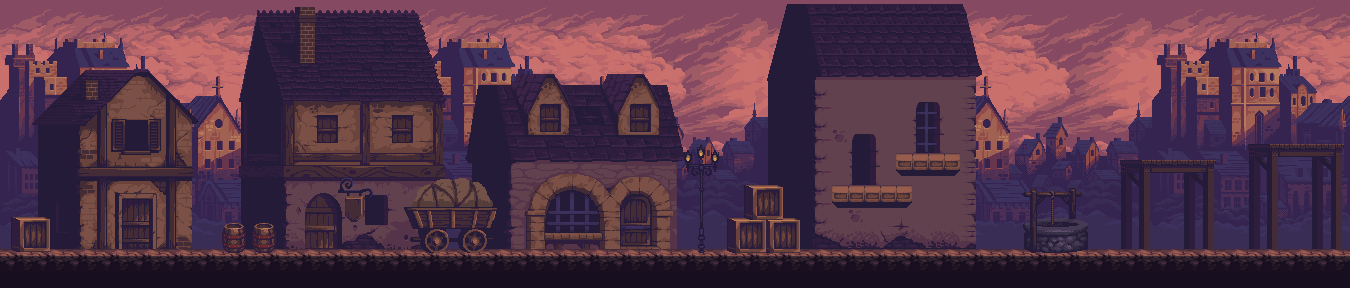
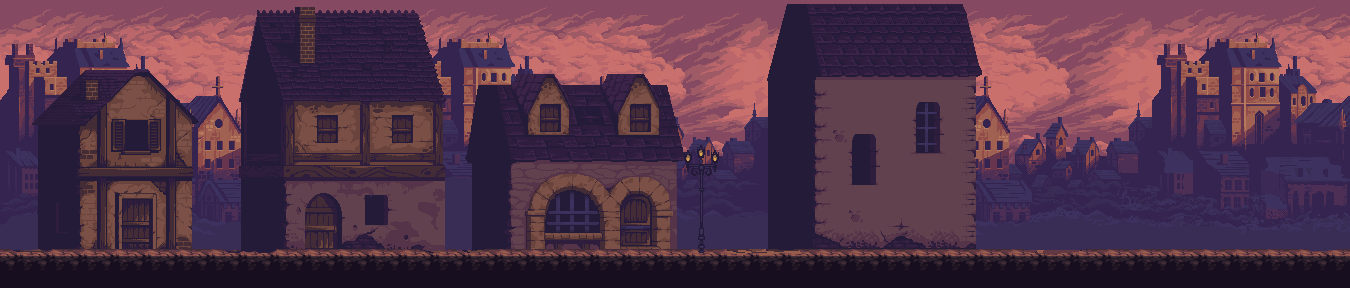
1/3 OF MAP DONE
just need to put assets and sprites and collisions in the start and end

diff --git a/src/sketch.js b/src/sketch.js
@@ -23,8 +23,11 @@ var floor1;
 var floor2;
 // Stage 3
 var well;
-var platform1;
-var platform2;
+var platform1a;
+var platform1b;
+var platform2a;
+var platform2b;
+
 
 function preload(){
 
@@ -36,8 +39,11 @@ function preload(){
   wagonImg = loadImage('./assets/images/wagon.png');
   floorImg = loadImage('./assets/images/floor.png');
   floorshortImg = loadImage('./assets/images/floor_short.png');
-  wellImg = loadImage('./assets/images/welltop.png');
+  wellImg = loadImage('./assets/images/well.png');
+  welltopImg = loadImage('./assets/images/welltop.png');
   platformImg = loadImage('./assets/images/platform.png');
+  platform1Img = loadImage('./assets/images/platform1.png');
+  platform2Img = loadImage('./assets/images/platform2.png');
 
 }
 
@@ -73,8 +79,8 @@ function setup() {
  
 
   // Player
-  geralt = createSprite(-500,465,67,80);
-  //-500
+  geralt = createSprite(1100,465,67,80);
+  //-3200
   //για να μην κανει rotate ο geralt 
   geralt.rotationLock = true;
   geraltImg.resize(88,80);
@@ -83,43 +89,41 @@ function setup() {
  
 
 
-  // Stage 1
+  // Stage 2
  
   crate =  createSprite(-840,470, 78, 70);
   crate.collider = 'static';
-  //crateImg.resize(83,74);
-  //crate.addImage(crateImg);
-  crate.visible = false;
-  
+  crateImg.resize(83,74);
+  crate.addImage(crateImg);
+ 
 
-  jumpingAssets.add(crate);
  
   barrel1 = createSprite(-435, 475, 45, 55);
   barrel1.collider='static';
-  //barrelImg.resize(55,60);
-  //barrel1.addImage(barrelImg);
-  barrel1.visible = false;
+  barrelImg.resize(55,60);
+  barrel1.addImage(barrelImg);
+  
 
   barrel2 = createSprite(-370, 475, 45, 55);
   barrel2.collider = 'static';
-  //barrel2.addImage(barrelImg);
-  barrel2.visible = false;
+  barrel2.addImage(barrelImg);
+  
 
   sign = createSprite(-189, 405, 60, 85);
   sign.collider = 'static';
-  //signImg.resize(70,100);
-  //sign.addImage(signImg);
-  sign.visible=false;
+  signImg.resize(70,100);
+  sign.addImage(signImg);
+  
 
 
-  // Stage 2
+  
 
   wagon = createSprite(0,430);
   wagon.collider = 'static';
   wagon.diameter = 155;
-  //wagonImg.resize(190,170);
-  //wagon.addImage(wagonImg);
-  wagon.visible = false;
+  wagonImg.resize(190,170);
+  wagon.addImage(wagonImg);
+  
 
   //!!!!!!!!!! AXREIASTO  !!!!!!!!!!!!!
   //lamp = new Lamp(503, 397);
@@ -127,47 +131,83 @@ function setup() {
 
   crate1 = createSprite(627, 404, 70, 65);
   crate1.collider = 'static';
-  //crate1.addImage(crateImg);
-  crate1.visible = false;
+  crate1.addImage(crateImg);
+  
 
   crate2 = createSprite(595, 470, 70, 65);
   crate2.collider = 'static';
-  //crate2.addImage(crateImg);
-  crate2.visible = false;
+  crate2.addImage(crateImg);
+ 
 
   crate3 = createSprite(665, 470, 65, 65);
   crate3.collider = 'static';
-  //cratestackedImg.resize(70,70);
-  //crate3.addImage(cratestackedImg);
-  crate3.visible = false;
+  cratestackedImg.resize(70,70);
+  crate3.addImage(cratestackedImg);
+  
 
   floor1 = createSprite(844, 390, 145, 40);
   floor1.collider = 'static';
-  //floorImg.resize(160,39);
-  //floor1.addImage(floorImg);
-  floor1.visible = false;
+  floorImg.resize(160,39);
+  floor1.addImage(floorImg);
+  
 
   floor2 = createSprite(957, 325, 120, 40);
   floor2.collider = 'static';
-  //floorshortImg.resize(127,39);
-  //floor2.addImage(floorshortImg);
-  floor2.visible = false;
+  floorshortImg.resize(127,39);
+  floor2.addImage(floorshortImg);
+  
 
-  // Stage 3
-  well = createSprite(1205, 390, 110, 15);
-  well.collider = 'static';
-  well.visible = false;
+  
+  well = createSprite(1205, 460, 110, 15);
+  well.collider = 'none';
+  wellImg.resize(100,100);
+  well.addImage(wellImg);
+  welltop = createSprite(1201, 415, 95, 15);
+  welltop.collider ='static';
+  welltopImg.resize(91,20);
+  welltop.addImage(welltopImg);
 
-  platform1 = createSprite(1435, 330, 185, 20);
-  platform1.collider = 'static';
-  platform1.visible = false;
+  
+
+  platform1a = createSprite(1435, 320, 185, 20);
+  platform1a.collider = 'static';
+  platform1a.visible = false;
+ 
+  
+  
+  platform1b = createSprite(1435, 405, 185, 20);
+  platform1b.collider= 'none';
+  platform1Img.resize(195,195);
+  platform1b.addImage(platform1Img);
 
 
-  platform2 = createSprite(1690, 300, 185, 20);
-  platform2.collider = 'static';
-  platform2.visible = false;
+  platform2a = createSprite(1690, 285, 185, 20);
+  platform2a.collider = 'static';
+ 
+  platform2b = createSprite(1690, 383, 185, 20);
+  platform2b.collider = 'none';
+  platform2Img.resize(195,235);
+  platform2b.addImage(platform2Img);
 
 
+  geralt.layer = 2;
+  crate.layer = 1;
+  barrel1.layer = 1;
+  barrel2.layer = 1;
+  sign.layer = 1;
+  wagon.layer = 1;
+  crate1.layer = 1;
+  crate2.layer = 1;
+  crate3.layer = 1;
+  floor1.layer = 1;
+  floor2.layer = 1;
+  well.layer = 1;
+  welltop.layer = 1;
+  platform1a.layer = 1;
+  platform1b.layer = 1;
+  platform2a.layer = 1;
+  platform2b.layer = 1;
+  
 
 
 }
@@ -181,32 +221,32 @@ function draw() {
   
   camera.on();
 
-  if( geralt.x <= -500){
+  if( geralt.x <= -3200){
 
-    camera.x= -450;
+    camera.x= -3150;
   }
-  if(geralt.x >= 1300){
+  if(geralt.x >= 4000){
 
-    camera.x= 1350;
+    camera.x= 4050;
   }
   keyPressed();
   keyReleased();
   
 
   //BOUNDARIES FOR PLAYER
-  if(geralt.x <= -855){
-    geralt.x=-855;
+  if(geralt.x <= -3550){
+    geralt.x=-3550;
   }
-  if(geralt.x >=1750){
-    geralt.x = 1750;
+  if(geralt.x >=4450){
+    geralt.x = 4450;
   }
 
   //pl.gravity();
   jump(geralt);
   
   
-	//camera.y = geralt.y;{
-  if(geralt.x >= -500 && geralt.x <= 1300){
+	//camera.y = geralt.y;
+  if(geralt.x >= -3200 && geralt.x <= 4000){
     camera.x=geralt.x+50;
   }
 
@@ -478,7 +518,7 @@ function jump(sprite){
   }
 
 
-  if(sprite.colliding(well)){
+  if(sprite.colliding(welltop)){
     sprite.vel.y=0;
     //sprite.y = 393;
   
@@ -490,7 +530,7 @@ function jump(sprite){
   }
 
 
-  if(sprite.colliding(platform1)){
+  if(sprite.colliding(platform1a)){
     sprite.vel.y=0;
     //sprite.y = 393;
   
@@ -503,7 +543,7 @@ function jump(sprite){
 
 
 
-  if(sprite.colliding(platform2)){
+  if(sprite.colliding(platform2a)){
     sprite.vel.y=0;
     //sprite.y = 393;
   

diff --git a/src/classes/Landscape.js b/src/classes/Landscape.js
@@ -1,6 +1,6 @@
 class Landscape {
     constructor() {
-        this.image = loadImage('./assets/images/landscape.png');
+        this.image = loadImage('./assets/images/landscape_long.png');
         this.stage = 0;
     }
 
@@ -8,8 +8,8 @@ class Landscape {
       
 
         
-        image(this.image, width / 2, height / 2, width * 3, height);
-        
+        //image(this.image, width / 2, height / 2, width * 3, height);
+        image(this.image, width/2, height/2, width*9, height); 
         //perigramma
         noFill();//keno
         stroke(0);//mauro xrwma
